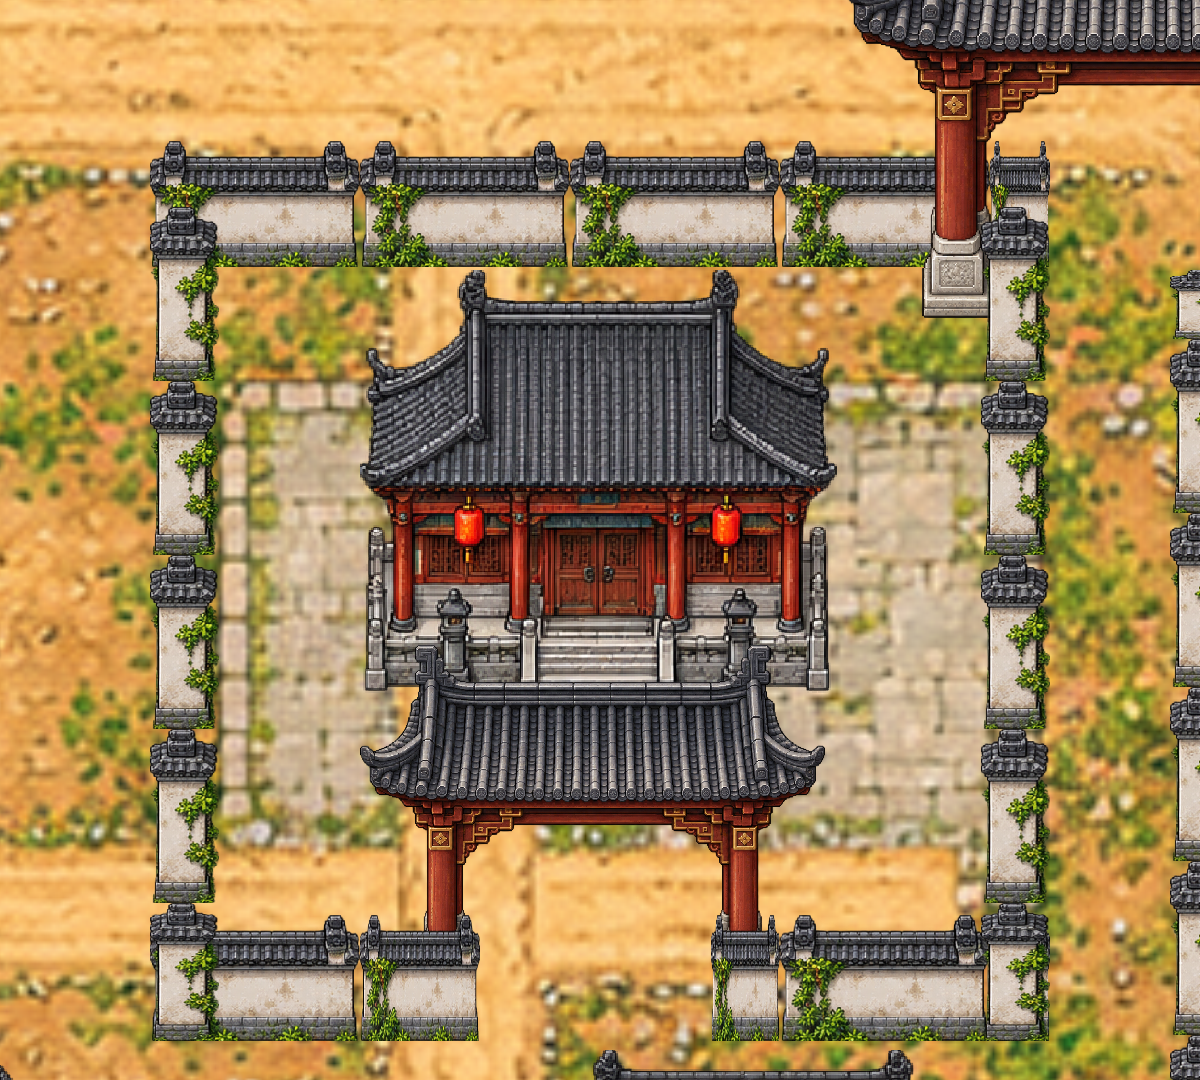
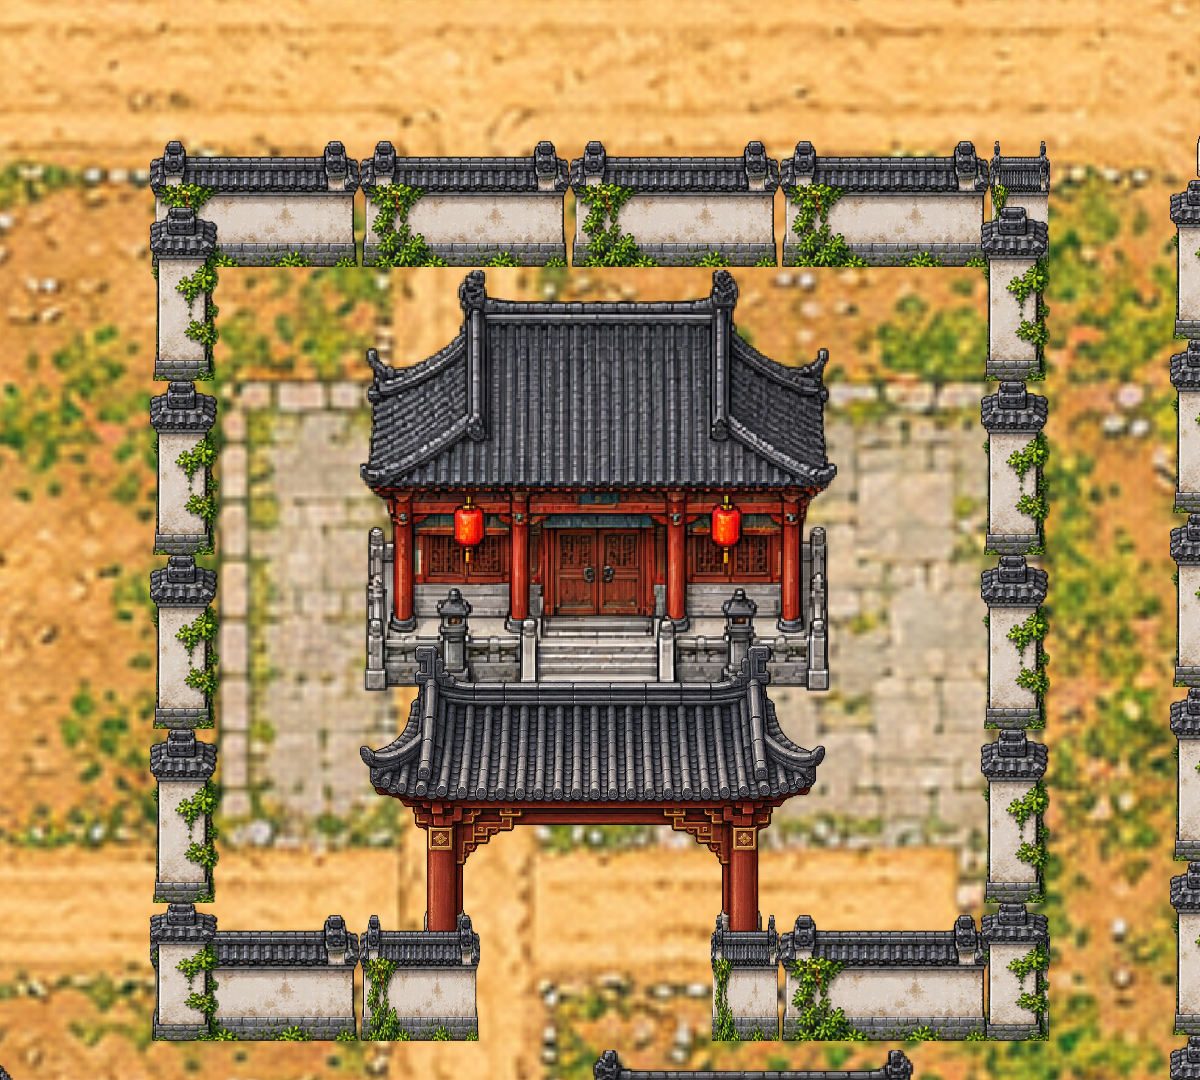
Orient Wuchang east gate for east-west passage

Changed region(s): [[0.7092, 0.0, 1.0, 0.3056], [0.9558, 0.1222, 1.0, 0.3361]]

diff --git a/godot/tools/build_wuchang_layout.py b/godot/tools/build_wuchang_layout.py
@@ -44,10 +44,14 @@ for args in [('harbor','장강 나루·하역장',[210,600,270,620],[335,875]),(
 # City enclosure: no long ornamental tree rows.
 row('city_north',240,1945,70)
 col('city_west',217,105,1420,gap=(890,1010))
-col('city_east',1940,105,1430,gap=(900,1010))
+col('city_east',1940,105,1430,gap=(900,980))
 row('city_south',240,1940,1410,gate=(1042,1163))
 obj('south_gate','gate',[982,1310,232,172]);landmark('south_entry','남문 · 장사 방면',[1100,1490])
-obj('east_gate','gate',[1830,864,220,162])
+# East entrance uses upright side-view architecture, not a rotated south gate.
+d['prefabs']={'gate_east':{'texture':'res://assets/maps/wuchang/east-gate.png','source':[0,0,887,1774],'kind':'gate','footprints':[[.40,.48,.20,.062],[.565,.83,.205,.078]]}}
+obj('east_gate','gate_east',[1895,810,94,187])
+d['objects'][-1].update({'opening_axis':'east_west','passage_point':[1949,945]})
+landmark('east_entry','동문 · 동서 통행',[1949,945])
 # Neighbourhoods: room for future residents in yards and at shop sides.
 for i,(x,y) in enumerate([(275,115),(600,115),(290,320),(625,325)]):obj(f'home_{i}','home',[x,y,126,113])
 obj('residential_well','well',[487,337,43,53]);obj('small_shrine','shrine',[740,130,105,98])

diff --git a/docs/CLI_HANDOFF.md b/docs/CLI_HANDOFF.md
@@ -11,7 +11,7 @@
 - **맵 조작 통일:** 0장·장사·산길·무창·총무당과 F6 답사는 WASD/방향키 이동만 지원한다. 클릭 이동/자동 접근은 제거했고 F 대화·조사·포탈을 유지한다. 전투·거래·인벤토리 등 UI 마우스 입력은 유지한다. `keyboard_exploration.gd`, `prologue_f_input.gd`로 확인한다.
 - **진행:** 0장 출항·첫 전투·침몰·귀물/구조 선택·표국 해체·장사 입성. 귀물 인도 보수 3,000문, 구조 경로는 해당 보수 없음.
 - **장사:** 바닥과 독립 건물·담장·문 등152개 오브젝트, 발밑 충돌·Y정렬·문 중앙 통과/지붕 가림, NPC 전신 겹침 방지. 자유 탐험·미니맵·목표 안내·시설 거래. 불필요 주민16명을 제거해 현재 NPC16명(의뢰11·거래3·토벌2)이다. 의뢰11명에게 이름·배경·일상 대사를 부여했으며 [명단](characters/changsha-quest-residents.md)에 정리했다. 도입 3종은 상인→장인→교관으로 이어지고 완료 대화 뒤 100/150/200문·오성 각5를 한 번 지급한다. 독립 일반 의뢰6종도 수락/보류·수행·보고·보상까지 구현했다. 의뢰인은 노란 !, 보고 대기는 ?, 완료 후 표식을 제거한다.
-- **무창 지도:** 남쪽 농촌을 거쳐 남문으로 입성하며 북동쪽에 대형 무림맹 본단을 배치했다. 농촌 확장 후8192×7680, 성내 좌표와 본단 크기는 유지한다. 남동쪽 관아의 북·서·동 담장15개를 보강해 관아 경계를 완성했다(구조물224개). 기존 남쪽 문과 주민 접근은 유지한다. 타이틀의 ‘무창 자유 탐방’으로 확인한다. 민간 주민8명과 영약상·장인·교관 거래3종을 배치했고 주민 초상화/도트·F 대화를 연결했다. 총무당(정문 안 왼편 기존 접수처)에 F 왕복 포탈과 별도 실내를 추가했다. 실내 가구 충돌·지도·저장/불러오기를 지원한다. 무림맹 경비2명과 교관 곽진석을 성내에, 총관 허문규를 총무당 실내에 배치했다(무창11명·실내1명). 정문 출입 제한과 기본 대화를 연결했으며 [이번 범위](story/alliance-visit-foundation.md)에 정리했다. 송지겸 초대·보증 연출·무공 선택/지급은 다음 단계다. 기본 새 플레이는 신원 미확인으로 입장이 막힌다. [주민과 대사](characters/wuchang-civilians.md). 즉시 동행 선택지 없이 나중에 육로로 방문하는 방향. [지도·진행 구분](cities/wuchang.md), [무림맹](factions/murim-alliance.md).
+- **무창 지도:** 남쪽 농촌을 거쳐 남문으로 입성하며 북동쪽에 대형 무림맹 본단을 배치했다. 농촌 확장 후8192×7680, 성내 좌표와 본단 크기는 유지한다. 남동쪽 관아의 북·서·동 담장15개를 보강해 관아 경계를 완성했다(구조물224개). 기존 남쪽 문과 주민 접근은 유지한다. 성곽 동문은 전용 측면 그림과 남북 기둥 충돌로 고쳐 동서 왕복 통행하도록 했다. 타이틀의 ‘무창 자유 탐방’으로 확인한다. 민간 주민8명과 영약상·장인·교관 거래3종을 배치했고 주민 초상화/도트·F 대화를 연결했다. 총무당(정문 안 왼편 기존 접수처)에 F 왕복 포탈과 별도 실내를 추가했다. 실내 가구 충돌·지도·저장/불러오기를 지원한다. 무림맹 경비2명과 교관 곽진석을 성내에, 총관 허문규를 총무당 실내에 배치했다(무창11명·실내1명). 정문 출입 제한과 기본 대화를 연결했으며 [이번 범위](story/alliance-visit-foundation.md)에 정리했다. 송지겸 초대·보증 연출·무공 선택/지급은 다음 단계다. 기본 새 플레이는 신원 미확인으로 입장이 막힌다. [주민과 대사](characters/wuchang-civilians.md). 즉시 동행 선택지 없이 나중에 육로로 방문하는 방향. [지도·진행 구분](cities/wuchang.md), [무림맹](factions/murim-alliance.md).
 - **도시 간 육로:** 장사 동쪽 농촌 끝 F→동진 후 북상하는 산길→무창 남쪽 농촌 끝 F, 푸른 포탈4곳으로 왕복 가능. 접근 강조·목적지·F 안내와 지도 표식을 지원한다. 산길은4096×5120으로 최초 세로 길이의 절반이며 긴 지도 저장의Y좌표를 호환 변환한다. 새 지역에서도 지도·I/K/Q·저장 지원. 산길 NPC/전투/사절은 추가하지 않았다. [출입·구현·검사](cities/changsha-wuchang-road.md).
 - **이동·비율:** 이동 속도360(기존2배), 도시 주인공140·주민132, 0장104. 충돌·카메라·머리 위 표시를 함께 조정했다. [탐험 크기와 이동](systems/exploration-scale.md).
 - **편의:** Q 의뢰 일지, 실제 F 대상 발밑 강조, 거래/I/K 비교·조건/잔액 표시, 약/장/무 시설 지도·필터·안내, L 교전 기록/결산, F2 도움말/최초 안내, ESC 환경 설정, 공통 알림·효과음6종. [입구·진행·검사](systems/adventure-usability.md).

diff --git a/docs/cities/wuchang.md b/docs/cities/wuchang.md
@@ -50,3 +50,12 @@
 5시 방향 관아 구역의 앞 담장에 북쪽·서쪽·동쪽 담장을 이어 네 면의 경계를 완성했다. 독립 담장 오브젝트15개를 추가해 전체 구조물은224개다. 북쪽 담장은 대로의 통행 영역과 관아 지붕 사이에 두며, 남쪽 기존 문과 가운데 통로는 유지한다. 포두 육정호의 자리와 접근로도 유지한다. 바닥 그림·퀘스트·보상은 바꾸지 않았다.
 
 [관아 담장 확대](../../godot/screenshots/wuchang-government-walls.png) · [갱신한 무창 전체 지도](../../godot/screenshots/wuchang-full-map.png). 배치 생성기는 `tools/build_wuchang_layout.py`, 캡처는 `tests/capture_government_walls.gd`다. `wuchang.gd`와 `wuchang_residents.gd`로 주요 지점 접근·문 통행·주민 겹침/접근을 확인했다.
+
+
+## 동문 방향 수정
+
+성곽 동쪽 출입문은 남쪽을 향하던 공용 정문 그림 대신 **동쪽을 향하는 전용 측면 그림**(`east-gate.png`)을 사용한다. 지붕 용마루와 두 기둥은 남북으로 배치하고 가운데를 동서로 통과한다. 남문·관아 문·무림맹 문은 기존 형태를 유지한다.
+
+`layout.json`의 `gate_east` 프리팹과 `east_gate.opening_axis=east_west`, 통과점 `[1949,945]`를 사용한다. 북·남 기둥 밑에만 독립 충돌을 두고 성곽의 문틈도 맞췄다. 도원이 지붕 밑으로 들어가면 기존 발밑 정렬과 투명 영역으로 자연스럽게 가려진다. 전체 지도와 미니맵도 같은 새 그림/배치를 표시한다.
+
+[동문 확대](../../godot/screenshots/wuchang-east-gate.png) · [실제 통행 화면](../../godot/screenshots/wuchang-east-gate-passage.png). `tests/wuchang.gd`는 가운데 통행·기둥 충돌과 실제 키보드 동서 왕복을 검사한다. 주민 접근과 산길 왕복 검사를 유지했다. 갱신 캡처는 `tests/capture_east_gate.gd`다.
